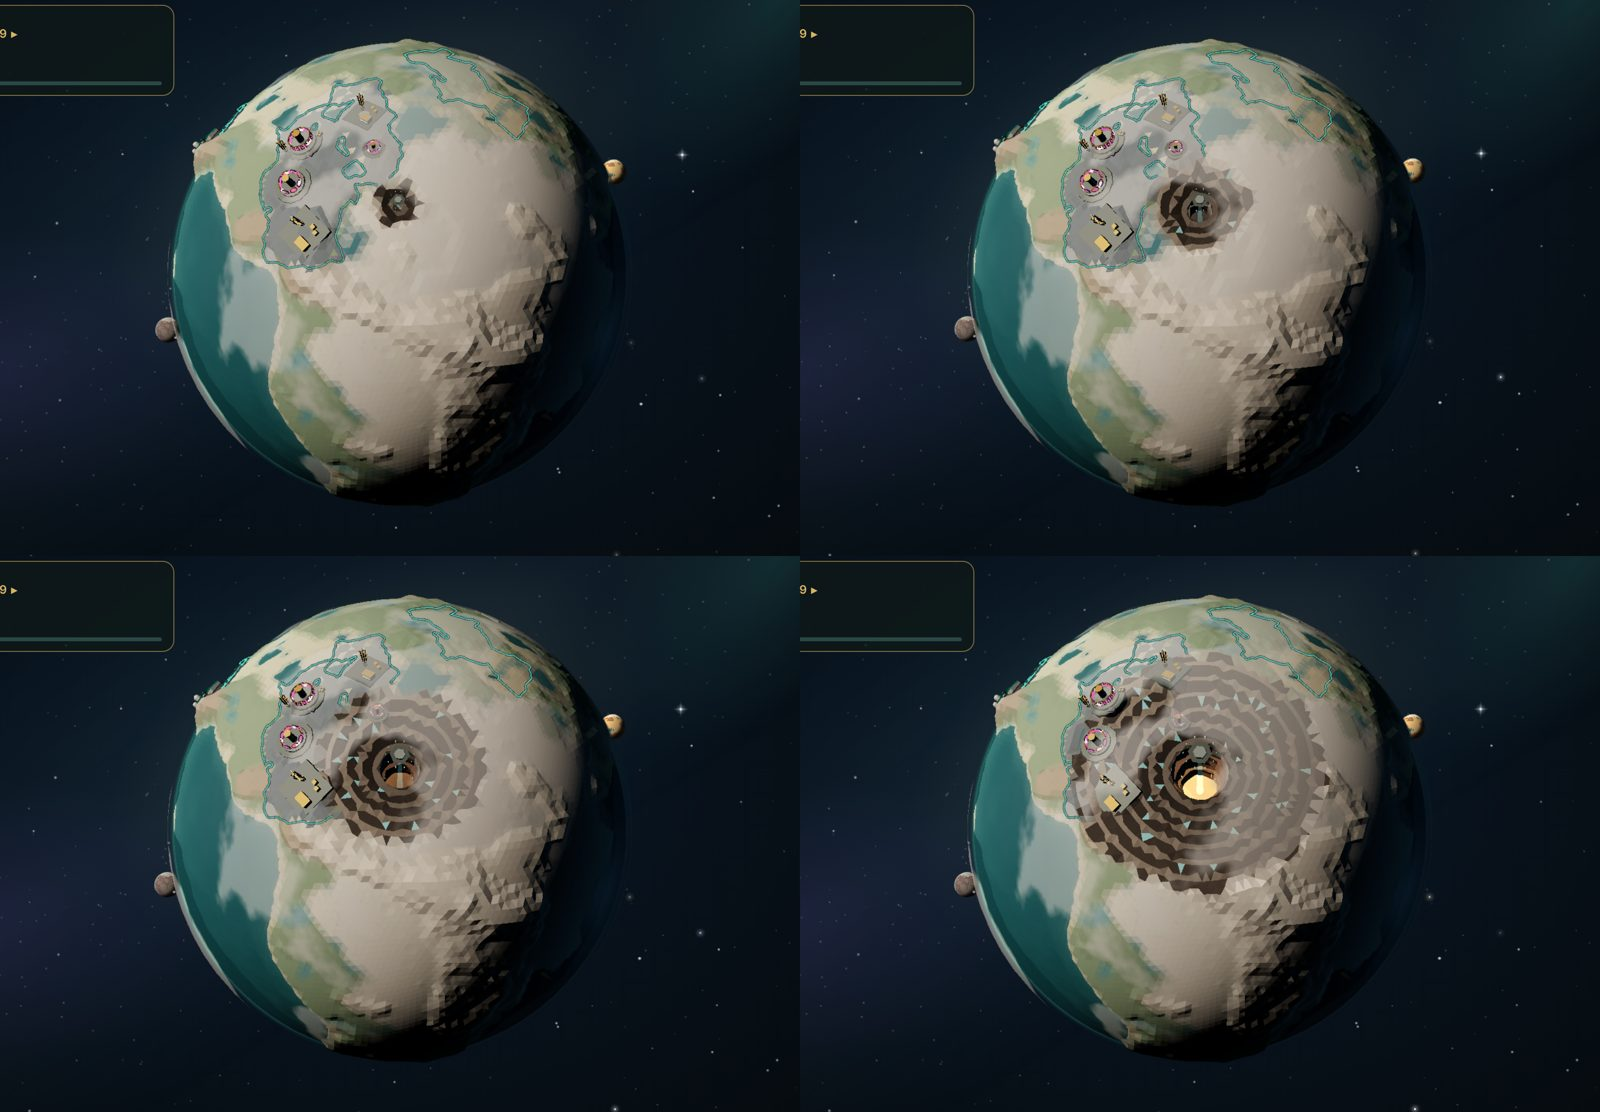
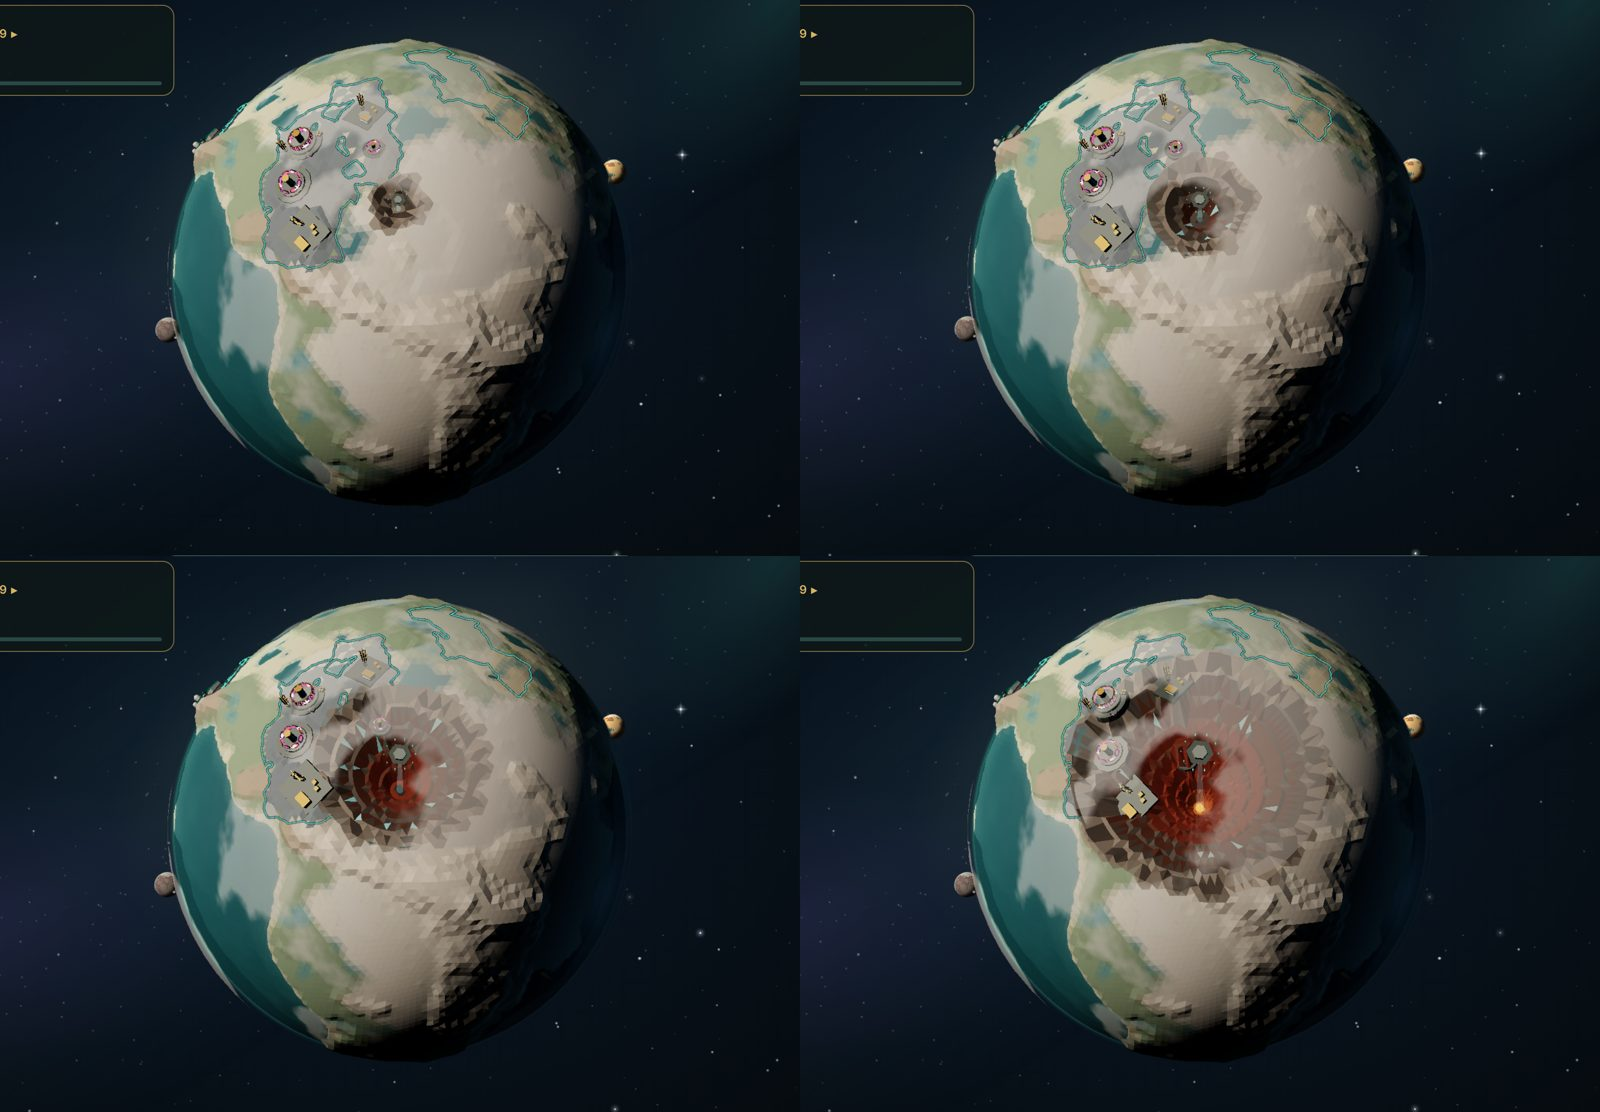
Krater kryształów: lej tarasami aż do jądra planety zamiast szybu (3D i 2D)
Claude-Session: https://claude.ai/code/session_01VkPVLkUY4LawJmspCK1nc1

diff --git a/src/planet-renderer/PlanetView.ts b/src/planet-renderer/PlanetView.ts
@@ -12,9 +12,9 @@ import { complexLayout, type MetalComplexSave } from '../core/colony/complexLayo
 import { metalObjectSize, metalPickTargets, mineDetail, nextMetalObject } from './metalComplexMeshes.ts';
 import { cellLookup, collectorOrbit, constructOrbit, hash01, stationOrbit, layoutFromPlots, offsetOnSphere, plotsKey, type ColonyComplex, type ColonyLayout, type Vec3 } from './colony.ts';
 import { pitDepthMax, pitShare, pitSink3d } from './complexLook.ts';
-import { bearingOf, buildDrill, drillParams, drillStage, rimPoint, type DrillParams } from './drill.ts';
+import { bearingOf, buildDrill, drillParams, drillStage, layerAt, rimPoint, type DrillParams } from './drill.ts';
 import { drillLook } from '../data/drill.ts';
-import { buildCrater, craterDrill } from './crater.ts';
+import { buildCrater, CRATER_MIN_RADIUS } from './crater.ts';
 import { createCrystalRig, type CrystalRig } from './crystalRigMesh.ts';
 import { buildOpenPit, oceanCutValue, pitBand, pitRadius, snapToContours, type OpenPit } from './openPit.ts';
 import { createPitCables, type PitCables } from './openPitMeshes.ts';
@@ -339,7 +339,7 @@ export class PlanetView implements PlanetDisplay {
     }
     if (!pit) return;
     const hover = pit.rim + 0.02 + 0.01 * stage;
-    this.craterRig = createCrystalRig(pit.center, hover, bottom ?? pit.floorRadius, 0.018 + 0.007 * stage);
+    this.craterRig = createCrystalRig(pit.center, hover, bottom ?? pit.floorRadius, 0.02 + 0.008 * stage);
     this.spinGroup.add(this.craterRig.group);
   }
   /** Ostatnia narysowana klatka (położenie i chwila) — do rysowania rzadziej, gdy planeta stoi. */
@@ -549,11 +549,12 @@ export class PlanetView implements PlanetDisplay {
     if (fresh) this.colony.setLayout(layout);
     else this.colony.updateLayout(layout);
     const crater = proto && protoCell && this.openPit ? this.openPit : null;
-    const drill = crater && proto ? craterDrill(crater, proto.stage) : pitComplex ? this.drillFor(pitComplex) : null;
+    // Krater kryształów to lej aż do jądra — bez szybu odwiertu.
+    const drill = crater ? null : pitComplex ? this.drillFor(pitComplex) : null;
     this.paintLand(layout, this.colony.pads(), drill);
     this.setDrill(crater?.center ?? pitComplex?.core ?? null, crater ? proto!.cell : (pitComplex?.cells[0] ?? 0), drill);
     this.setCables(this.openPit && hanging ? createPitCables(this.openPit, hanging, (dir) => this.pitGround(dir), this.still) : null);
-    this.setCraterRig(crater, proto?.stage ?? 1, drill?.bottom);
+    this.setCraterRig(crater, proto?.stage ?? 1);
     // Wyrobisko może zejść poniżej poziomu morza — tafla oceanu nad nim jest wycięta.
     if (pitComplex && !this.openPit) this.oceanCut.value.set(...pitComplex.core, Math.cos(pitComplex.radius * pitShare(pitComplex.stage)));
     else this.oceanCut.value.set(0, 1, 0, 2);
@@ -582,6 +583,11 @@ export class PlanetView implements PlanetDisplay {
   }
 
   /** Promień pierwotnego terenu w punkcie (woda — tafla morza). */
+  /** Najniżej, jak schodzi wykop: odkrywka — w skorupie, lej krateru kryształów — do jądra. */
+  private pitMinRadius(): number {
+    return this.craterProto ? CRATER_MIN_RADIUS : PIT_MIN_RADIUS;
+  }
+
   private groundAt(dir: Vec3): number {
     const sampler = this.shaped;
     if (!sampler) return 1;
@@ -592,7 +598,7 @@ export class PlanetView implements PlanetDisplay {
   /** Promień terenu z wielką odkrywką (pod liną, pod rusztowaniem). */
   private pitGround(dir: Vec3): number {
     const ground = this.groundAt(dir);
-    return this.openPit ? Math.max(PIT_MIN_RADIUS, pitRadius(this.openPit, this.openPit.s(dir), ground)) : ground;
+    return this.openPit ? Math.max(this.pitMinRadius(), pitRadius(this.openPit, this.openPit.s(dir), ground)) : ground;
   }
 
   /** Wiszący ekstraktor: nad środkiem dziury, pod poziomem krawędzi, z zapasem nad dnem; nie szerszy niż dno. */
@@ -761,6 +767,7 @@ export class PlanetView implements PlanetDisplay {
     // Wielka odkrywka: teren wykopany — każdy wierzchołek w dziurze schodzi na wysokość warstwy (`openPit.ts`); na obrysie
     // pól s = 0, więc krawędź zostaje dokładnie na granicy, bez szczelin. `s` liczone raz na wspólny punkt siatki.
     const sAt = open ? new Float32Array(pos.length / 3) : null;
+    const minPit = this.pitMinRadius();
     if (open && sAt) {
       const memo = new Map<number, { dir: Vec3; s: number }>();
       const cosReach = Math.cos(open.reach + 0.03);
@@ -778,7 +785,7 @@ export class PlanetView implements PlanetDisplay {
           memo.set(key, hit);
         }
         sAt[i / 3] = hit.s;
-        const target = hit.s > 0 ? Math.max(PIT_MIN_RADIUS, pitRadius(open, hit.s, r)) : r;
+        const target = hit.s > 0 ? Math.max(minPit, pitRadius(open, hit.s, r)) : r;
         pos[i] = hit.dir[0] * target;
         pos[i + 1] = hit.dir[1] * target;
         pos[i + 2] = hit.dir[2] * target;
@@ -846,6 +853,9 @@ export class PlanetView implements PlanetDisplay {
     const vein = [0.3, 0.72, 0.78] as const;
     const L = open.look.layers;
     const crater = !!this.craterProto;
+    const layerRgb = [rgb(look.crust), rgb(look.deepCrust), rgb(look.mantle), rgb(look.hot)];
+    const coreRgb = rgb(look.core);
+    const glowRgb = rgb(look.glow);
     for (let t = 0; t < pos.length; t += 9) {
       const v = t / 3;
       const sMean = (sAt[v]! + sAt[v + 1]! + sAt[v + 2]!) / 3;
@@ -858,18 +868,25 @@ export class PlanetView implements PlanetDisplay {
         // Krater (prototyp): ścianka na krawędzi z jednym wierzchołkiem w środku zostaje gruntem — gładszy obrys;
         // warstwy jako pierścienie: półka jasna, zbocze ciemne, im głębiej, tym ciemniej; żyły kryształu na zboczach.
         const inner = (sAt[v]! > 0 ? 1 : 0) + (sAt[v + 1]! > 0 ? 1 : 0) + (sAt[v + 2]! > 0 ? 1 : 0);
-        if (inner <= 1) continue;
+        if (inner === 0) continue;
         const band = pitBand(open.look, sMean);
-        const depth = band.layer / Math.max(1, L - 1);
         const tone = 0.95 + 0.1 * hash01(t, 11);
+        // Warstwy planety wg prawdziwej głębokości ścianki: skorupa → głębsza skorupa → płaszcz → strefa gorąca → jądro.
+        const radius = len / 3;
+        const layer = layerAt(radius);
+        const shelfBase = layerRgb[layer]!;
+        const slopeBase = layerRgb[Math.min(3, layer + 1)]!;
+        const heat = Math.max(0, 1 - (radius - CRATER_MIN_RADIUS) / 0.12);
         let c: readonly number[];
-        if (sMean >= 0.995) c = floorRgb;
-        else if (!band.shelf && hash01(t, 12) < 0.06 && sMean > 0.2) c = vein;
-        else if (band.shelf) c = shelfRgb.map((x) => x * (1.15 - 0.45 * depth) * tone);
-        else c = slopeRgb.map((x) => x * (0.8 - 0.35 * depth) * tone);
+        if (sMean >= 0.995 && radius < CRATER_MIN_RADIUS + 0.03) c = coreRgb;
+        else if (sMean >= 0.995) c = floorRgb;
+        else if (!band.shelf && hash01(t, 12) < 0.06 && sMean > 0.2 && layer < 2) c = vein;
+        else if (band.shelf) c = shelfBase.map((x) => x * 1.12 * tone);
+        else c = slopeBase.map((x) => x * 0.8 * tone);
+        if (heat > 0 && c !== coreRgb) c = c.map((x, j) => x + (glowRgb[j]! - x) * heat * 0.7);
         // Ścianka na samej krawędzi — pół na pół z gruntem (miękki obrys zamiast „zębatki”).
-        const mix = inner < 3 ? 0.45 : 1;
-        if (inner < 3) c = shelfRgb;
+        const mix = inner === 1 ? 0.75 : 1;
+        if (inner < 3) c = shelfRgb.map((x) => x * 0.95);
         for (let k = 0; k < 3; k++) {
           for (let j = 0; j < 3; j++) col[t + k * 3 + j] = Math.min(1, col[t + k * 3 + j]! * (1 - mix) + c[j]! * mix);
         }

diff --git a/src/planet-renderer/complexLook.ts b/src/planet-renderer/complexLook.ts
@@ -3,8 +3,9 @@
 // Kopalnia metalu: gęsta zabudowa przemysłowa (dachy złote i szare, drogi, żar okien pieców) — gęstsza z etapem.
 // Ekstraktor kryształów: odkrywka — tarasowe pierścienie schodzące w głąb (ciemniej ku środkowi), świecące kryształy
 // na dnie, zabudowa na krawędzi; dziura rośnie z etapem. Pozostałe budynki — spójny grunt w tym samym stylu.
-import { CRATER_DEPTH, drillStage } from './drill.ts';
-import { pitBand, type OpenPit } from './openPit.ts';
+import { CRATER_DEPTH, drillStage, layerAt } from './drill.ts';
+import { pitBand, pitDepthAt, type OpenPit } from './openPit.ts';
+import { CRATER_MIN_RADIUS } from './crater.ts';
 import type { ColonyComplex, Vec3 } from './colony.ts';
 import { angleBetween, hash01 } from './colony.ts';
 
@@ -232,35 +233,29 @@ function lotCrystal(p: Vec3, share: number): boolean {
 }
 
 /**
- * Krater megakonstruktu kryształów (prototyp, 2D): brązowe tarasy — półki jaśniejsze, zbocza ciemniejsze, im głębiej,
- * tym ciemniej; turkusowe żyły kryształu na zboczach; dno ciemne z kryształami. Barwy jak w 3D (robocze).
+ * Krater megakonstruktu kryształów (prototyp, 2D): tarasowy lej — półki jaśniejsze, zbocza ciemniejsze; barwa warstwy
+ * wg głębokości (skorupa → płaszcz → strefa gorąca), turkusowe żyły kryształu w skorupie; na dnie najgłębszego leja
+ * świeci jądro planety. Barwy jak w 3D (robocze).
  */
-export function craterGround(pit: OpenPit, p: Vec3, shaft: CraterShaft | null = null): GroundColor {
-  if (shaft) {
-    // Szyb w dnie: koncentryczne warstwy coraz głębiej (skorupa → płaszcz → strefa gorąca), w środku blask dna
-    // albo — na ostatnim etapie — jądro planety.
-    const t = angleBetween(pit.center, p) / shaft.angle;
-    if (t < 1) {
-      if (shaft.core && t < 0.32) return { rgb: shaft.colors.core, glow: 1 };
-      if (shaft.core && t < 0.42) return { rgb: shaft.colors.glow, glow: 0.8 };
-      const ring = Math.min(3, Math.floor((1 - t) * 4 * (shaft.depth)));
-      const base = [shaft.colors.crust, shaft.colors.deepCrust, shaft.colors.mantle, shaft.colors.hot][ring]!;
-      return { rgb: shade(base, 0.8 - 0.35 * (1 - t)), glow: ring >= 3 ? 0.3 : 0 };
-    }
-  }
+export function craterGround(pit: OpenPit, p: Vec3, colors: CraterColors): GroundColor {
   const s = pit.sCached(p);
-  if (s >= 0.999) return lotCrystal(p, 0.08) ? { rgb: CRYSTAL, glow: 0.8 } : { rgb: [0.12, 0.09, 0.07], glow: 0 };
-  const { layer, shelf } = pitBand(pit.look, s);
-  const depth = layer / Math.max(1, pit.look.layers - 1);
-  if (!shelf && lotCrystal(p, 0.05)) return { rgb: CRYSTAL, glow: 0.5 };
-  return { rgb: shade(shelf ? [0.56, 0.45, 0.36] : [0.3, 0.23, 0.18], 1.05 - 0.45 * depth), glow: 0 };
+  const radius = 1 - pitDepthAt(pit.look, s);
+  const layer = layerAt(radius);
+  const heat = Math.max(0, 1 - (radius - CRATER_MIN_RADIUS) / 0.12);
+  if (s >= 0.999) {
+    if (radius < CRATER_MIN_RADIUS + 0.03) return { rgb: colors.core, glow: 1 };
+    return lotCrystal(p, 0.08) && layer < 2 ? { rgb: CRYSTAL, glow: 0.8 } : { rgb: shade(colors.layers[Math.min(3, layer + 1)]!, 0.6), glow: 0 };
+  }
+  const { shelf } = pitBand(pit.look, s);
+  if (!shelf && layer < 2 && lotCrystal(p, 0.05)) return { rgb: CRYSTAL, glow: 0.5 };
+  const base = shelf ? shade(colors.layers[layer]!, 1.12) : shade(colors.layers[Math.min(3, layer + 1)]!, 0.8);
+  const rgb: [number, number, number] = [0, 1, 2].map((j) => base[j]! + (colors.glow[j]! - base[j]!) * heat * 0.7) as [number, number, number];
+  return { rgb, glow: heat * 0.6 };
 }
 
-/** Szyb w dnie krateru (2D): promień kątowy, jak głęboko (0–1, ile warstw widać), czy widać jądro, barwy warstw. */
-export interface CraterShaft {
-  angle: number;
-  depth: number;
-  core: boolean;
-  colors: { crust: RGB3; deepCrust: RGB3; mantle: RGB3; hot: RGB3; core: RGB3; glow: RGB3 };
+/** Barwy warstw planety dla krateru (2D): skorupa, głębsza skorupa, płaszcz, strefa gorąca; jądro i blask. */
+export interface CraterColors {
+  layers: readonly [number, number, number][];
+  core: [number, number, number];
+  glow: [number, number, number];
 }
-type RGB3 = [number, number, number];

diff --git a/src/planet-renderer/CanvasPlanetFallback.ts b/src/planet-renderer/CanvasPlanetFallback.ts
@@ -4,8 +4,8 @@ import { fieldGrid, type FieldGrid } from '../core/colony/fieldGrid.ts';
 import type { Plots } from '../core/colony/plots.ts';
 import type { Complex } from '../core/colony/complexes.ts';
 import { cellLookup, collectorOrbit, constructOrbit, hash01, stationOrbit, layoutFromPlots, plotsKey, type CellLookup, type ColonyLayout } from './colony.ts';
-import { complexGround, craterGround, type CraterShaft } from './complexLook.ts';
-import { buildCrater, craterDrill } from './crater.ts';
+import { complexGround, craterGround, type CraterColors } from './complexLook.ts';
+import { buildCrater } from './crater.ts';
 import { drillLook } from '../data/drill.ts';
 import { buildOpenPit, type OpenPit } from './openPit.ts';
 import { borderChains, borderStates, cellBorders, CHOICE, FIELD_COLORS, FIELD_LINE, HIGHLIGHT, outlineBorders, type BorderChain, type HighlightMode } from './fieldOverlay.ts';
@@ -43,7 +43,7 @@ export class CanvasPlanetFallback implements PlanetDisplay {
   /** Prototyp krateru megakonstruktu kryształów (tylko wygląd) i jego etap. */
   private crater: OpenPit | null = null;
   private craterStage = 1;
-  private craterShaft: CraterShaft | null = null;
+  private craterColors: CraterColors | null = null;
   private planetType = '';
   private levels: BuildingLevels | undefined;
   private site: BuildSite | null = null;
@@ -105,7 +105,7 @@ export class CanvasPlanetFallback implements PlanetDisplay {
   setPlanet(planet: Planet): void {
     this.planetType = planet.definitionId;
     this.crater = null;
-    this.craterShaft = null;
+    this.craterColors = null;
     this.look = discLook(planet);
     this.sampler = this.look.sampler;
     this.grid = fieldGrid(planet);
@@ -336,15 +336,12 @@ export class CanvasPlanetFallback implements PlanetDisplay {
     const cell = proto && this.grid ? this.grid.cells[proto.cell] : undefined;
     this.crater = proto && cell ? buildCrater(cell.center as [number, number, number], proto.stage, () => 1) : null;
     this.craterStage = proto?.stage ?? 1;
-    const drill = this.crater && proto ? craterDrill(this.crater, proto.stage) : null;
     const look = drillLook(this.planetType);
     const rgb = (h: string): [number, number, number] => {
       const n = parseInt(h.slice(1), 16);
       return [((n >> 16) & 255) / 255, ((n >> 8) & 255) / 255, (n & 255) / 255];
     };
-    this.craterShaft = drill && drill.stage >= 3
-      ? { angle: drill.rimAngle, depth: Math.min(1, (drill.stage - 2) / 5), core: drill.core !== null, colors: { crust: rgb(look.crust), deepCrust: rgb(look.deepCrust), mantle: rgb(look.mantle), hot: rgb(look.hot), core: rgb(look.core), glow: rgb(look.glow) } }
-      : null;
+    this.craterColors = { layers: [rgb(look.crust), rgb(look.deepCrust), rgb(look.mantle), rgb(look.hot)], core: rgb(look.core), glow: rgb(look.glow) };
     this.lastDrawn = { yaw: NaN, pitch: NaN };
   }
 
@@ -587,7 +584,7 @@ export class CanvasPlanetFallback implements PlanetDisplay {
     const overlay =
       colony && lookup && (colony.complexes.length > 0 || crater)
         ? (x: number, y: number, z: number) => {
-            if (crater && crater.inside([x, y, z])) return craterGround(crater, [x, y, z], this.craterShaft);
+            if (crater && this.craterColors && crater.inside([x, y, z])) return craterGround(crater, [x, y, z], this.craterColors);
             const cell = lookup(x, y, z);
             const index = cell >= 0 ? colony.owner[cell]! : -1;
             if (index < 0) return null;

diff --git a/src/planet-renderer/crater.ts b/src/planet-renderer/crater.ts
@@ -5,23 +5,21 @@
 import type { OpenPitLook } from '../data/openPit.ts';
 import { angleBetween, type Vec3 } from './colony.ts';
 import { pitRadius, type OpenPit } from './openPit.ts';
-import { drillParams, type DrillParams } from './drill.ts';
-
-/** Wygląd krateru wg etapu (1–4): promień kątowy, liczba tarasów, głębokość (ułamek promienia planety), etap szybu. Robocze. */
-export const CRATER_STAGES: Readonly<Record<1 | 2 | 3 | 4, { radius: number; layers: number; depth: number; drill: number }>> = {
-  1: { radius: 0.1, layers: 2, depth: 0.04, drill: 2 },
-  2: { radius: 0.2, layers: 3, depth: 0.08, drill: 4 },
-  3: { radius: 0.33, layers: 4, depth: 0.12, drill: 6 },
-  4: { radius: 0.5, layers: 6, depth: 0.17, drill: 8 },
-};
+import { CORE_RADIUS } from './drill.ts';
 
 /**
- * Szyb w dnie krateru (odwiert z v0.48, `drill.ts`): etap odwiertu wg etapu krateru — na etapie 4 aż do jądra planety
- * (decyzja właściciela 2026-11-02). Otwór zajmuje prawie całe płaskie dno.
+ * Wygląd krateru wg etapu (1–4): promień kątowy, liczba tarasów, głębokość (ułamek promienia planety). Lej tarasami
+ * w dół — na etapie 4 aż do jądra planety (decyzja właściciela 2026-11-02: lej, nie szyb). Robocze.
  */
-export function craterDrill(pit: OpenPit, stage: 1 | 2 | 3 | 4): DrillParams | null {
-  return drillParams(CRATER_STAGES[stage].drill, pit.floorAngle * 1.6, pit.floorRadius);
-}
+export const CRATER_STAGES: Readonly<Record<1 | 2 | 3 | 4, { radius: number; layers: number; depth: number }>> = {
+  1: { radius: 0.1, layers: 2, depth: 0.08 },
+  2: { radius: 0.2, layers: 3, depth: 0.2 },
+  3: { radius: 0.33, layers: 5, depth: 0.4 },
+  4: { radius: 0.5, layers: 8, depth: 0.68 },
+};
+
+/** Najgłębiej, jak schodzi lej (promień od środka planety) — powierzchnia jądra (`drill.ts`, CORE_RADIUS). */
+export const CRATER_MIN_RADIUS = CORE_RADIUS + 0.02;
 
 const norm = (v: Vec3): Vec3 => {
   const l = Math.hypot(v[0], v[1], v[2]) || 1;
@@ -51,7 +49,7 @@ function onCircle(c: Vec3, p: Vec3, angle: number): Vec3 {
 export function buildCrater(center: Vec3, stage: 1 | 2 | 3 | 4, ground: (dir: Vec3) => number): OpenPit {
   const st = CRATER_STAGES[stage];
   const R = st.radius;
-  const floorAngle = R * 0.3;
+  const floorAngle = R * 0.14;
   const look: OpenPitLook = { layers: st.layers, depth: st.depth, shelf: 0.35, floor: 1.9, hang: 0.3, cables: 0, sag: 0, status: 'robocza' };
   const c = norm(center);
   const outline: Vec3[] = Array.from({ length: 129 }, (_, i) => {
